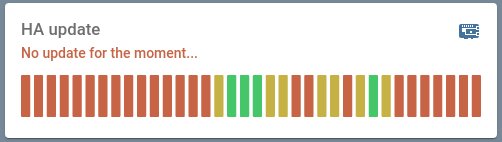
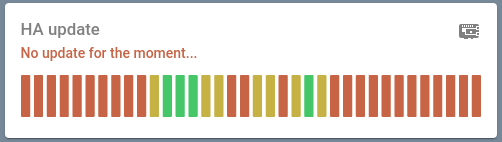
Update readme

diff --git a/README.md b/README.md
@@ -101,13 +101,21 @@ icon: 'mdi:raspberry-pi'
 severity: 100
 ok: 'on'
 ko: 'off'
+bar:
+  height: 46
+  round: 1
+  spacing: 4
+  amount: 36
 name: HA update
 alias:
   ok: Update available !
   ko: No update for the moment...
+color:
+  icon: grey
 hours_to_show: 168
 show:
   footer: false
+status_adaptive_color: true
 ```
 
 ### Example 2
@@ -120,23 +128,24 @@ show:
 type: 'custom:uptime-card'
 bar:
   spacing: 4
+  amount: 36
   height: 10
   round: 4
 icon: 'mdi:weather-sunny'
+severity: 100
 entity: sun.sun
 name: Sun
 ko: below_horizon
-alias:
-  ko: Below Horizon
-  ok: Above Horizon
 average_text: '% above horizon'
 hours_to_show: 24
 color:
   ok: '#f9d71c'
   ko: '#053752'
   half: '#EF810E'
+icon_adaptive_color: true
 show:
   average: false
+  status: false
 ```
 
 ### Example 3
@@ -149,19 +158,25 @@ show:
 type: 'custom:uptime-card'
 entity: binary_sensor.ping_google # You can add one of these using https://www.home-assistant.io/integrations/ping/
 icon: 'mdi:heart'
-ko: off
-ok: on
+ko: o
 bar:
   height: 46
   round: 0
   spacing: 10
   amount: 6
-alias:
-  ok: Up !
-  ko: Down :(
+show:
+  status: false
+  icon: false
+color:
+  ok: '#45C669'
+  ko: '#C66445'
+  none: '#C9C9C9'
+  half: '#C6B145'
+title_adaptive_color: true
 hours_to_show: 72
 name: 'https://www.google.com/'
 severity: 100
+average_text: '% uptime'
 ```
 
 ## Roadmap 🗺
